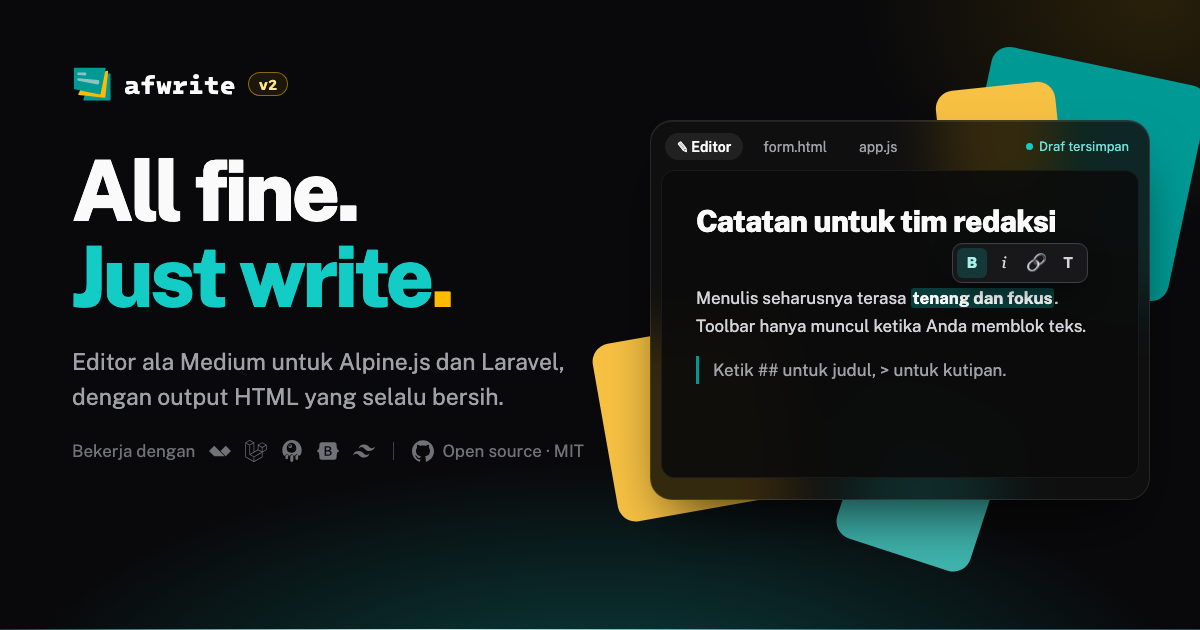
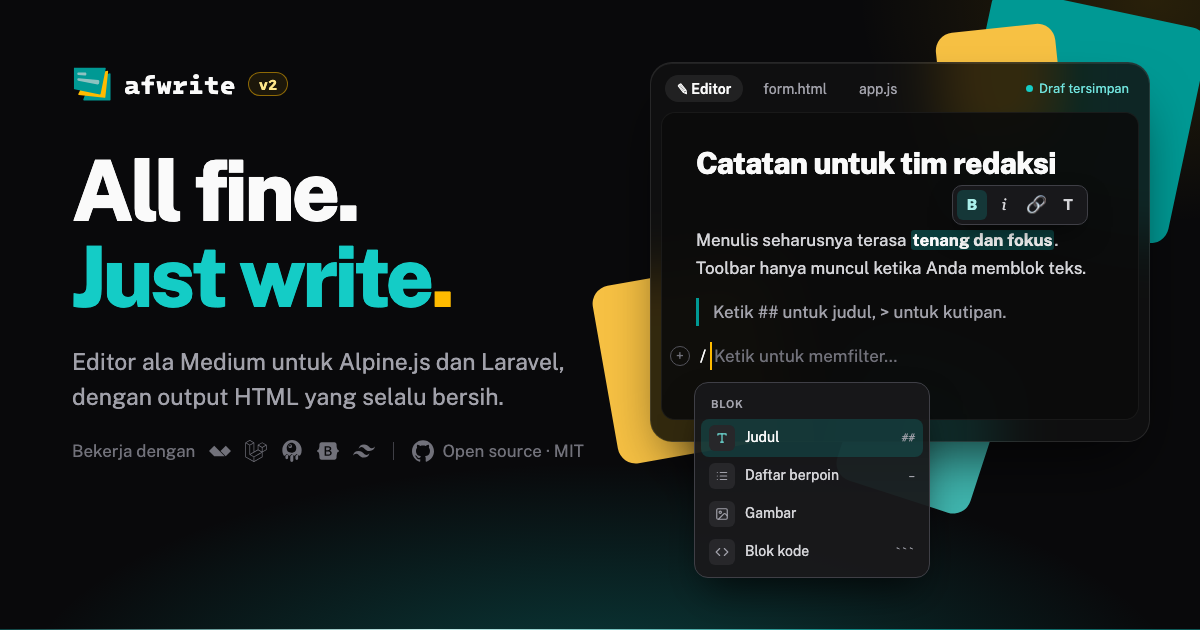
Website: OG landing menampilkan baris slash dan slash menu yang menjorok keluar kartu seperti hero

Changed region(s): [[0.4933, 0.0, 1.0, 0.9048], [0.555, 0.1206, 0.74, 0.1508]]

diff --git a/website/og/landing.html b/website/og/landing.html
@@ -32,7 +32,7 @@
   .works .sep { width: 1px; height: 18px; margin: 0 8px; background: #3f3f46; }
   .works .gh { display: flex; align-items: center; gap: 8px; }
   /* kanan: kertas + kaca */
-  .right { position: absolute; left: 650px; top: 120px; width: 500px; height: 380px; }
+  .right { position: absolute; left: 650px; top: 62px; width: 500px; height: 380px; }
   .paper { position: absolute; border-radius: 18px; }
   .card { position: absolute; inset: 0; border-radius: 22px; padding: 10px;
     background: rgba(16,16,16,.86); border: 1px solid rgba(255,255,255,.1);
@@ -48,6 +48,21 @@
   .doc .h { margin-bottom: 28px; font-size: 30px; font-weight: 800; letter-spacing: -0.02em; line-height: 1.15; color: #fafafa; }
   .sel { background: rgba(12,180,174,.3); border-radius: 3px; padding: 0 2px; color: #fafafa; font-weight: 700; }
   .q { padding-left: 14px; border-left: 3px solid #009994; color: #a1a1aa; }
+  /* Baris slash dan menu yang menjorok keluar dari bawah kartu, seperti hero. */
+  .cmd { display: flex; align-items: center; gap: 10px; margin-left: -26px; color: #71717a; }
+  .cmd .plus { width: 20px; height: 20px; display: flex; align-items: center; justify-content: center; border: 1px solid #52525b; border-radius: 50%; font-size: 14px; line-height: 1; }
+  .cmd .sl { color: #fafafa; }
+  .cmd .ph { margin-left: -6px; border-left: 2px solid #ffbb00; padding-left: 2px; }
+  .slash { position: relative; margin: -4px 0 0 -2px; width: 236px; flex: none; padding: 6px; border-radius: 14px; z-index: 3;
+    background: rgba(24,24,27,.94); border: 1px solid #3f3f46; box-shadow: 0 20px 40px -12px rgba(0,0,0,.7); font-size: 14px; }
+  .slash .cap { padding: 6px 10px 6px; font-size: 11px; font-weight: 600; letter-spacing: .06em; color: #a1a1aa; }
+  .mi { display: flex; align-items: center; gap: 10px; padding: 6px 8px; border-radius: 8px; color: #d4d4d8; }
+  .mi.on { background: rgba(12,180,174,.2); color: #fafafa; }
+  .mi .ic { width: 26px; height: 26px; border-radius: 6px; background: #27272a; display: flex; align-items: center; justify-content: center; color: #a1a1aa; }
+  .mi.on .ic { color: #70e2dc; }
+  .mi svg { width: 14px; height: 14px; fill: none; stroke: currentColor; stroke-width: 2; stroke-linecap: round; stroke-linejoin: round; }
+  .mi .lb { flex: 1; }
+  .mi kbd { font-family: 'JetBrains Mono', monospace; font-size: 11px; color: #a1a1aa; }
   .bubble { position: absolute; left: 290px; top: 72px; display: flex; gap: 2px; padding: 4px; border-radius: 10px; background: #18181b; border: 1px solid #3f3f46;
     box-shadow: 0 12px 28px -8px rgba(0,0,0,.6); font-size: 15px; color: #d4d4d8; }
   .bubble span { width: 30px; height: 30px; display: flex; align-items: center; justify-content: center; border-radius: 6px; }
@@ -80,8 +95,10 @@
         <div class="h">Catatan untuk tim redaksi</div>
         <div>Menulis seharusnya terasa <span class="sel">tenang dan fokus</span>. Toolbar hanya muncul ketika Anda memblok teks.</div>
         <div class="q">Ketik ## untuk judul, &gt; untuk kutipan.</div>
+        <div class="cmd"><span class="plus">+</span><span class="sl">/</span><span class="ph">Ketik untuk memfilter…</span></div>
+        <div class="slash"><div class="cap">BLOK</div><div class="mi on"><span class="ic"><svg viewBox="0 0 24 24"><path d="M5 7V5h14v2"/><path d="M12 5v14"/><path d="M9.5 19h5"/></svg></span><span class="lb">Judul</span><kbd>##</kbd></div><div class="mi"><span class="ic"><svg viewBox="0 0 24 24"><path d="M9 6h11M9 12h11M9 18h11M4 6h.01M4 12h.01M4 18h.01"/></svg></span><span class="lb">Daftar berpoin</span><kbd>-</kbd></div><div class="mi"><span class="ic"><svg viewBox="0 0 24 24"><rect x="3" y="3" width="18" height="18" rx="2"/><circle cx="9" cy="9" r="2"/><path d="m21 15-3.1-3.1a2 2 0 0 0-2.8 0L6 21"/></svg></span><span class="lb">Gambar</span></div><div class="mi"><span class="ic"><svg viewBox="0 0 24 24"><path d="m16 18 6-6-6-6"/><path d="m8 6-6 6 6 6"/></svg></span><span class="lb">Blok kode</span><kbd>```</kbd></div></div>
       </div>
-    </div>
+          </div>
   </div>
 </body>
 </html>
